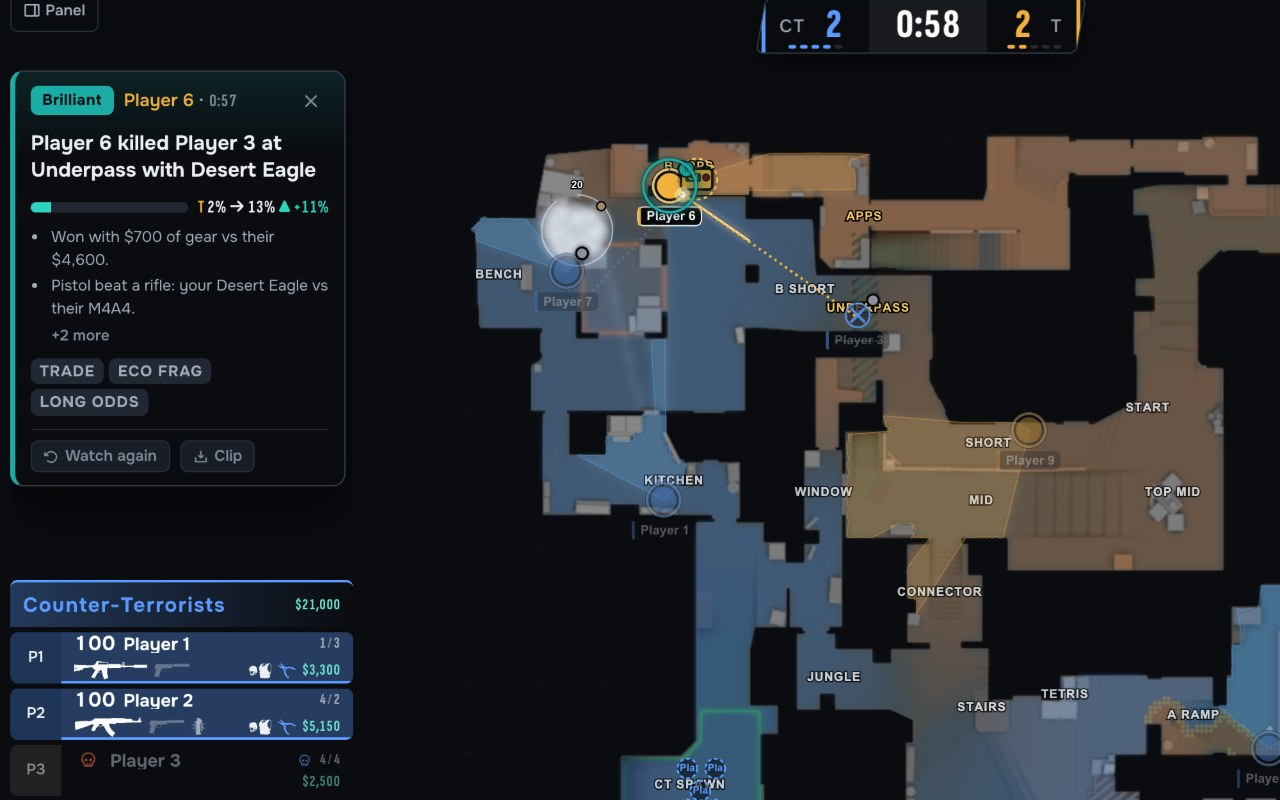
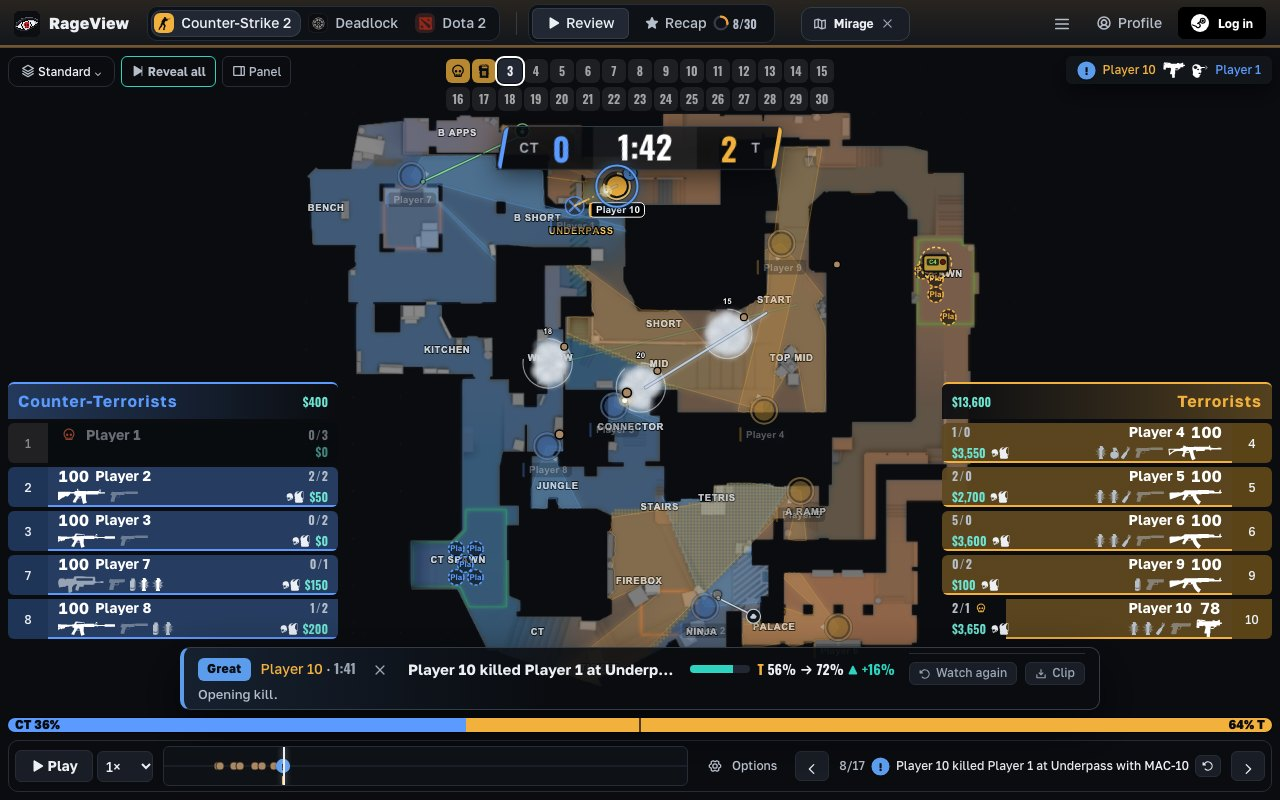
The rest of the designer list: new CS2 screenshots, release cards with screenshots, scroll-driven win bar, dark puzzle map and one-row header, bigger tactical map, 14px prose, tighter card, panel pushes the map

diff --git a/src/site/InfoPages.tsx b/src/site/InfoPages.tsx
@@ -52,17 +52,18 @@ export function Privacy() {
 }
 
 /** Newest first: what changed for players (not the internals). */
-const CHANGES: { date: string; items: string[] }[] = [
-  { date: 'Nov 15, 2026', items: ['New fonts: Golos Text for text and Oswald for numbers, scores and grade letters. The stat strip shows your last match and the ten before it as bars, the score bar has a defuse line, the blast plays once when the bomb goes off, and Dota 2 is on the site.'] },
+const CHANGES: { date: string; items: string[]; shot?: { src: string; alt: string } }[] = [
+  { date: 'Nov 15, 2026', items: ['New fonts: Golos Text for text and Oswald for numbers, scores and grade letters. The stat strip shows your last match and the ten before it as bars, the score bar has a defuse line, the blast plays once when the bomb goes off, and Dota 2 is on the site.'], shot: { src: '/images/shots/cs2-recap.jpg', alt: "The CS2 match recap: grade, key numbers and the coach's three cards" } },
   { date: 'Nov 14, 2026', items: ['Two fonts now: Onest for text and a narrow display face for headlines, numbers, scores and grade letters. Grades land with a new reveal (a springy drop, then a shine for S+, ripples for S, a pop for A, a settle for C, a soft shake for F).', 'The front page video shows a real graded card with its win bar, pauses when off screen, and has a bigger pause button.', 'Deadlock: Economy is four cards, the kill log moved to Timeline, one Trends card with a switch on your profile.', 'Win-chance changes are whole percents with an arrow (T 72% → 94%, ▲ +22%), never "pts"; good is teal and bad is orange-red so colour-blind players can tell them apart.', 'A broadcast-style score bar with one timer line for the plant, the fuse and the defuse; the bomb blast follows corridors, not circles (an estimate).', 'Close match from the recap or the match tab goes to Review with an Undo.', 'The CS2 recap: one row of tiles, a Chance to win chart with half-time, Key moments as five rows, one Numbers table, a heat grid for the timeline, a scoreboard that lines up.', 'Settings has a menu and each setting once; the profile has a side column and tabs; the leak is counted in rounds and only covers habits you can change.', 'One grade for each player on the CS2 recap, with a line on why; one number per skill on the Deadlock recap.', 'A bad mark never shows a gain any more (and a good one never a loss); "Your team still won the fight" says so.', 'The coach no longer praises a habit it also flags.', 'Chance to win on the CS2 recap, round by round, like Deadlock\'s; the same top row (Costliest moment, Best play, Fix next) in both games.', 'The Coach tab is three cards: Coach, Key moments, Numbers.', 'Puzzles: answers named for the thing (Take Blue Walker, Fight 3v4), human lines for what happens, lanes and hero icons on Deadlock\'s map, CT puzzles, and small Scenarios (2 against 3, clutch 1 against 2).', 'Your Deadlock profile: solo or with friends, your most-won build, a scout card for a live match.', 'One footer, hints that sit next to what they explain, a pause button on the front-page video, a bigger round strip with results.', 'Every font size, colour, shadow, corner and animation speed is now on the design system\'s sets.'] },
-  { date: 'Nov 12, 2026', items: ['A new front page video, the bomb dial, the round strip, Scenarios, clips of a moment, light theme.', 'New Deadlock profile tops: lane record and rank trend.'] },
+  { date: 'Nov 12, 2026', items: ['A new front page video, the bomb dial, the round strip, Scenarios, clips of a moment, light theme.', 'New Deadlock profile tops: lane record and rank trend.'], shot: { src: '/images/shots/cs2-moment.jpg', alt: 'A CS2 replay with the move card docked above the timeline and the bomb timer' } },
   { date: 'Nov 10, 2026', items: ['A CS2 page (/cs2) like Deadlock\'s, linked from the front page; samples for both games in one menu.', 'The same recap tabs in both games (Overview, Coach, Scoreboard, Timeline) and letter grades for Deadlock.', 'Late rotations: no more "rotated too late" cards; the old rule flagged players already on their way. The coach report still counts them, at a small weight.', 'Deadlock\'s Meta & builds has one name and its own address (/deadlock/meta).', 'A skip link, a labelled speed control, and a page that breaks no longer blanks the whole site.', 'Pages load about 10 times less code (0.7 MB instead of 8 MB): the replay and the engine come only when you open them.', 'Easier reading and tapping: one set of text sizes, less bold, bigger tap areas.'] },
-  { date: 'Nov 7, 2026', items: ['Puzzles: one honest scale for every number, a Why after each answer, the situation at a glance (health, gun, bomb, time), callout names on the map, the path of each move on hover.', 'Daily puzzle, puzzle rush (3 minutes), a puzzle rating, weak spots by kind of situation.', 'Sound and a little celebration on a right answer; Rage mode has words for a wrong one.'] },
+  { date: 'Nov 7, 2026', items: ['Puzzles: one honest scale for every number, a Why after each answer, the situation at a glance (health, gun, bomb, time), callout names on the map, the path of each move on hover.', 'Daily puzzle, puzzle rush (3 minutes), a puzzle rating, weak spots by kind of situation.', 'Sound and a little celebration on a right answer; Rage mode has words for a wrong one.'], shot: { src: '/images/shots/puzzle.jpg', alt: 'A CS2 puzzle on Nuke with three moves to choose from' } },
   { date: 'Nov 6, 2026', items: ['Clearer errors when a demo is zipped, from CS:GO or not a demo.', 'Rage mode asks before it turns on.', 'Try a sample match from the front page.', 'Phone menu with labels.'] },
   { date: 'Nov 5, 2026', items: ['Puzzles: from your own matches and from top players\', with a 10 s clip on the map.', 'Mistake reel, next-match focus and a fixing streak.', 'Share one moment as a link.', 'Side by side with a friend in both recaps.', 'Since the last patch, on the Deadlock profile.', 'Bolder look: each game in its own colour.'] },
-  { date: 'Nov 4, 2026', items: ['Deadlock engine: win chance, likely moves, fights and a 2-step search grade every move, like a chess engine.', 'Every hero\'s abilities and ultimate explained in the recap.', 'Deadlock replay files read in your browser.'] },
+  { date: 'Nov 4, 2026', items: ['Deadlock engine: win chance, likely moves, fights and a 2-step search grade every move, like a chess engine.', 'Every hero\'s abilities and ultimate explained in the recap.', 'Deadlock replay files read in your browser.'], shot: { src: '/images/shots/dl-moment.jpg', alt: 'A Deadlock fight graded with the better play' } },
 ];
 
+const shotOf = (c: object) => (c as { shot?: { src: string; alt: string } }).shot;
 export const CHANGES_SEEN = 'rageview.changesSeen';
 /** The newest entry's date (the dev page's entries come first), for the footer's "New" dot. */
 export const latestChange = () => siteConfig().changelog[0]?.date ?? CHANGES[0].date;
@@ -75,6 +76,7 @@ export function Changelog() {
       {[...cfg.changelog, ...CHANGES].map(c => (
         <section key={c.date} className="release">
           <h2>{c.date}</h2>
+          {shotOf(c) && <img className="release-shot" src={shotOf(c)!.src} alt={shotOf(c)!.alt} width={1280} height={800} loading="lazy" />}
           <ul>{c.items.slice(0, 3).map(i => <li key={i}>{i}</li>)}</ul>
           {c.items.length > 3 && <details><summary className="muted">{c.items.length - 3} more</summary><ul>{c.items.slice(3).map(i => <li key={i}>{i}</li>)}</ul></details>}
         </section>

diff --git a/src/moments/MomentsPage.tsx b/src/moments/MomentsPage.tsx
@@ -60,8 +60,9 @@ export function MomentMap({ m, size = 260 }: { m: Moment; size?: number }) {
   const img = imageOf(m);
   return (
     <svg className="moment-map" viewBox="0 0 100 100" width={size} height={size} role="img" aria-label={`${m.match}, ${m.when}: ${m.dots.length} players on the map`}>
-      <rect width="100" height="100" rx="4" fill="var(--bg-1)" />
-      {img && <image href={img} x="0" y="0" width="100" height="100" preserveAspectRatio="xMidYMid meet" opacity={0.85} />}
+      <rect width="100" height="100" rx="4" fill="var(--bg-0)" />
+      {/* the radar as the replay draws it: dark, not pastel */}
+      {img && <image href={img} x="0" y="0" width="100" height="100" preserveAspectRatio="xMidYMid meet" opacity={0.9} style={{ filter: 'brightness(.55) saturate(.8) contrast(1.08)' }} />}
       {m.dots.filter(d => !d.me).map((d, i) => <circle key={i} cx={d.x * 100} cy={d.y * 100} r={1.9} fill={d.team ? 'var(--good)' : 'var(--bad)'} stroke="#000" strokeWidth={0.5} />)}
       {m.dots.filter(d => d.me).map((d, i) => (
         <g key={`me${i}`}>
@@ -140,7 +141,8 @@ export function ClipMap({ m, revealed, hover = null }: { m: Moment; revealed: bo
         </defs>
         {/* Deadlock's map image is dark buildings over clear streets: a light floor under it makes the streets readable */}
         <rect width="100" height="100" rx="4" fill={m.game === 'deadlock' ? '#6b7686' : 'var(--bg-1)'} />
-        {img && <image href={img} x="0" y="0" width="100" height="100" preserveAspectRatio="xMidYMid meet" opacity={m.game === 'deadlock' ? 1 : 0.85} />}
+        {/* CS2's radar as the replay draws it: dark and toned down, not pastel */}
+        {img && <image href={img} x="0" y="0" width="100" height="100" preserveAspectRatio="xMidYMid meet" opacity={m.game === 'deadlock' ? 1 : 0.9} style={m.game === 'deadlock' ? undefined : { filter: 'brightness(.55) saturate(.8) contrast(1.08)' }} />}
         {/* small labels, and none under the player you are (it would hide both) */}
         {names && labels.filter(c => !meAt || Math.hypot(c.x - meAt.x * 100, c.y - meAt.y * 100) > 5).map(c => <text key={c.name} x={c.x} y={c.y} className="map-callout" textAnchor="middle" fontSize={2.1 * z}>{c.name}</text>)}
         {!revealed && hover !== null && Math.abs(f - zero) < 0.5 && arrow(m.options[hover], 'var(--text-1)', '1.5 1')}
@@ -324,6 +326,12 @@ export function MomentsPage() {
   const focus = source === 'top' ? [] : (['cs2', 'deadlock'] as MomentGame[]).filter(g => g === game).map(g => ({ g, f: focusOf(mine, g) })).filter(x => x.f);
   // the leaderboard can be switched off from the dev page (Content → flags)
   const boardOn = useSiteConfig().flags.puzzlesBoard;
+  const switcher = (
+    <div className="seg-mini" role="group" aria-label="Whose puzzles">
+      <button className={source === 'mine' ? 'on' : ''} onClick={() => setSource('mine')}>From your games</button>
+      <button className={source === 'top' ? 'on' : ''} onClick={() => setSource('top')}>Top players</button>
+    </div>
+  );
   const header = (
     <header className="moments-head">
       <h1>Puzzles</h1>
@@ -335,6 +343,7 @@ export function MomentsPage() {
       <div className="seg-mini puzzle-game" role="group" aria-label="Game">
         {(['cs2', 'deadlock'] as const).map(g => <button key={g} className={game === g ? 'on' : ''} aria-pressed={game === g} onClick={() => setGame(g)}>{GAME_NAME[g]}</button>)}
       </div>
+      {mode === 'practice' && switcher}
       <span className="puzzle-rating" title={`Your ${GAME_NAME[game]} puzzle rating (each game has its own): it goes up more for harder puzzles`}>{GAME_NAME[game]} rating <b className="num">{score.rating}</b></span>
       <button className="chip" onClick={toggleSound} aria-pressed={sound} aria-label={sound ? 'Sound off' : 'Sound on'}>{sound ? 'Sound on' : 'Sound off'}</button>
     </header>
@@ -363,15 +372,8 @@ export function MomentsPage() {
     );
   }
 
-  const switcher = (
-    <div className="seg-mini" role="group" aria-label="Whose puzzles">
-      <button className={source === 'mine' ? 'on' : ''} onClick={() => setSource('mine')}>From your games</button>
-      <button className={source === 'top' ? 'on' : ''} onClick={() => setSource('top')}>Top players</button>
-    </div>
-  );
   const filters = (
     <div className="moments-filters">
-      {switcher}
       {tag && <button className="chip on" onClick={() => setTag(null)}>{tag} <Icon name="close" size={11} /></button>}
     </div>
   );

diff --git a/src/site/Frags.tsx b/src/site/Frags.tsx
@@ -1,3 +1,4 @@
+import { useEffect, useRef, useState } from 'react';
 import { LETTER_COLOR, LETTERS } from '../engine/recap';
 
 /**
@@ -57,6 +58,32 @@ export function PosFrag() {
     <div className="frag frag-pos" role="img" aria-label="Where level-10 players hold a spot">
       <div className="feed-tags"><span className="feed-tag">B DOORS</span><span className="feed-tag">ROUND 12 · 0:40</span></div>
       <p className="muted small">Level-10 players hold this spot 55% of the time. Alone here they die 52%.</p>
+    </div>
+  );
+}
+
+/**
+ * The page's one dealt moment: the win-chance bar scrubs from 50% to 97% as you scroll the section into view, like a replay
+ * running (static at the end with reduced motion).
+ */
+export function ScrollWin() {
+  const ref = useRef<HTMLDivElement>(null);
+  const [v, setV] = useState(50);
+  useEffect(() => {
+    if (matchMedia('(prefers-reduced-motion: reduce)').matches) { setV(97); return; }
+    const on = () => {
+      const r = ref.current?.getBoundingClientRect(); if (!r) return;
+      const p = Math.max(0, Math.min(1, (innerHeight - r.top) / (innerHeight * 0.75)));
+      setV(Math.round(50 + p * 47));
+    };
+    on(); addEventListener('scroll', on, { passive: true, capture: true }); addEventListener('resize', on);
+    return () => { removeEventListener('scroll', on, true); removeEventListener('resize', on); };
+  }, []);
+  return (
+    <div className="frag frag-win" ref={ref} role="img" aria-label="The win chance rising from 50% to 97% as a round plays">
+      <div className="feed-win"><span className="bar"><i style={{ width: `${v}%`, background: 'var(--good)' }} /></span>
+        <span className="num"><b className="side-ct">CT</b> {v}% <b className="up">+{v - 50}%</b></span></div>
+      <p className="muted small">Every kill, grenade and rotation moves the bar.</p>
     </div>
   );
 }

diff --git a/src/site/site.css b/src/site/site.css
@@ -1536,3 +1536,22 @@ body { font-weight: 500; }
 /* puzzles: the controls are one row on a wide screen (the subtitle goes), the tactical hint is 13px */
 @media (min-width: 1100px) { .moments-head { flex-wrap: nowrap; } .moments-head .moments-sub { display: none; } .moments-head h1 { margin: 0; white-space: nowrap; } }
 .hint { font-size: 13px; }
+
+/* round 13, the rest */
+/* prose on the site's pages is 14px at least (12 stays for chart axes); pills and chips keep 13 */
+.page .muted, .page .small { font-size: 14px; }
+.page .chip.small, .page .games-status, .page .eyebrow { font-size: 13px; }
+/* the move card in two tight lines: its buttons share the title's row */
+.board-ui .feed-card { grid-template-areas: "head title meter foot" "why why why more"; row-gap: 0; padding: 5px 14px; }
+.board-ui .feed-card .feed-card-foot { margin: 0; }
+/* the panel under 1280 (and over 900) pushes the map instead of covering it */
+@media (min-width: 900px) and (max-width: 1279px) {
+  .app:not(.drawer-closed) { grid-template-columns: var(--rail-w) minmax(0, 1fr) 320px; }
+  .app.no-rail:not(.drawer-closed) { grid-template-columns: minmax(0, 1fr) 320px; }
+  .app:not(.drawer-closed) .drawer { position: static; width: auto; box-shadow: none; }
+}
+/* puzzles: the one row has room for its chips without wrapping */
+.moments-head .seg-mini button, .moments-head .chip { white-space: nowrap; padding-left: 10px; padding-right: 10px; }
+.moments-head h1 { font-size: 36px; }
+.release-shot { width: 100%; height: auto; aspect-ratio: 16 / 10; object-fit: cover; border-radius: 10px; border: 1px solid var(--border); margin: 0 0 12px; }
+.moments-head .puzzle-rating { white-space: nowrap; display: inline-flex; align-items: baseline; gap: 6px; }

diff --git a/src/site/Home.tsx b/src/site/Home.tsx
@@ -6,7 +6,7 @@ import { Icon, type IconName } from '../ui/Icon';
 import { GAMES, PLAYABLE, STATUS_LABEL } from './games';
 import { SiteFooter } from './SiteFooter';
 import { GameMark } from './gameMarks';
-import { CardFrag, GradeFrag, WinFrag } from './Frags';
+import { CardFrag, GradeFrag, ScrollWin } from './Frags';
 import { useEffect, useRef, useState } from 'react';
 import { setNotifyGame, useProfile } from '../ui/profileApi';
 import { openCs2Sample, openDlSample } from '../ui/sample';
@@ -150,7 +150,7 @@ export function Home() {
       <section className="site-section">
         <h2 className="section-title">What you get</h2>
         <div className="frag-row">
-          <figure className="frag-fig"><WinFrag /><figcaption><b>Graded replay</b><span>Every play scored, with a live win-chance bar.</span></figcaption></figure>
+          <figure className="frag-fig"><ScrollWin /><figcaption><b>Graded replay</b><span>Every play scored, with a live win-chance bar.</span></figcaption></figure>
           <figure className="frag-fig"><CardFrag /><figcaption><b>The better play</b><span>What you did, what to do instead, and how much it would have helped.</span></figcaption></figure>
           <figure className="frag-fig"><GradeFrag /><figcaption><b>A grade for every round</b><span>S+ to F, for you and everyone in the match.</span></figcaption></figure>
         </div>

diff --git a/src/ui/Board.tsx b/src/ui/Board.tsx
@@ -1041,7 +1041,8 @@ function fitView(w: number, h: number, rosters = false) {
   const narrow = w < 600;
   const fit = (side: number, bottom: number) => {
     const aw = Math.max(200, w * 0.5, w - (narrow ? 6 : side) * 2), ah = Math.max(200, h - FIT_PAD.top - bottom);
-    const scale = (Math.min(aw, ah) / 1024) * (narrow ? 1.12 : 1);
+    // the radar picture has empty borders: the Tactical board (no rosters) zooms past them a little, the phones more
+    const scale = (Math.min(aw, ah) / 1024) * (narrow ? 1.12 : rosters ? 1 : 1.15);
     return { scale, x: (w - 1024 * scale) / 2, y: FIT_PAD.top + (ah - 1024 * scale) / 2 };
   };
   const plain = fit(FIT_PAD.side, FIT_PAD.bottom);
